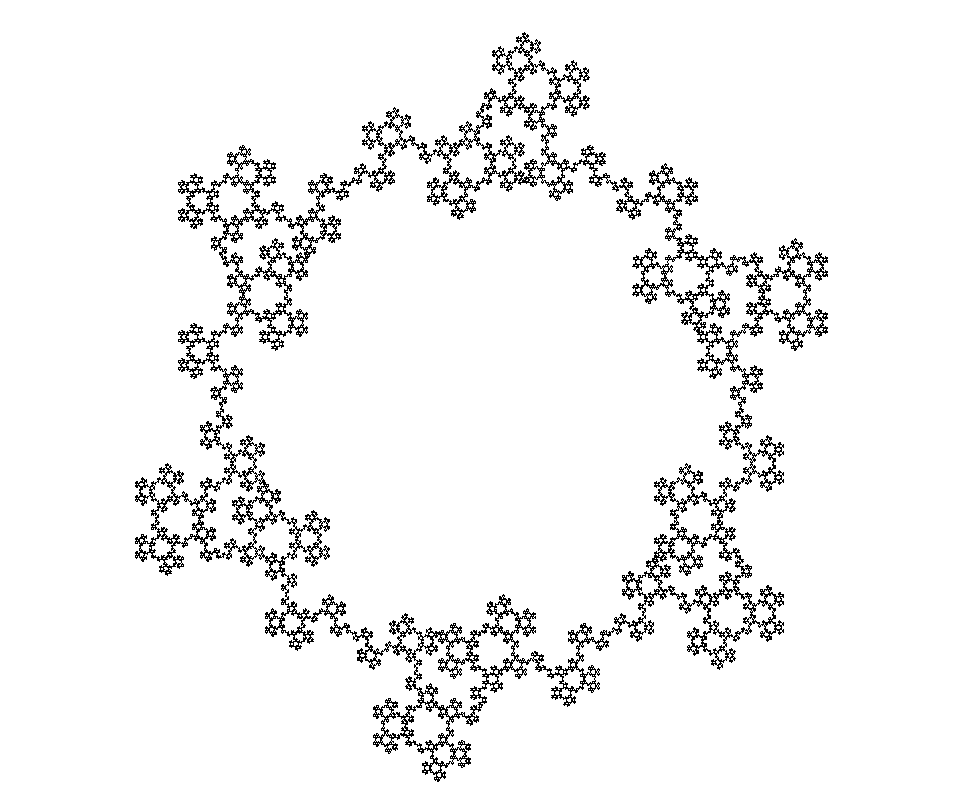
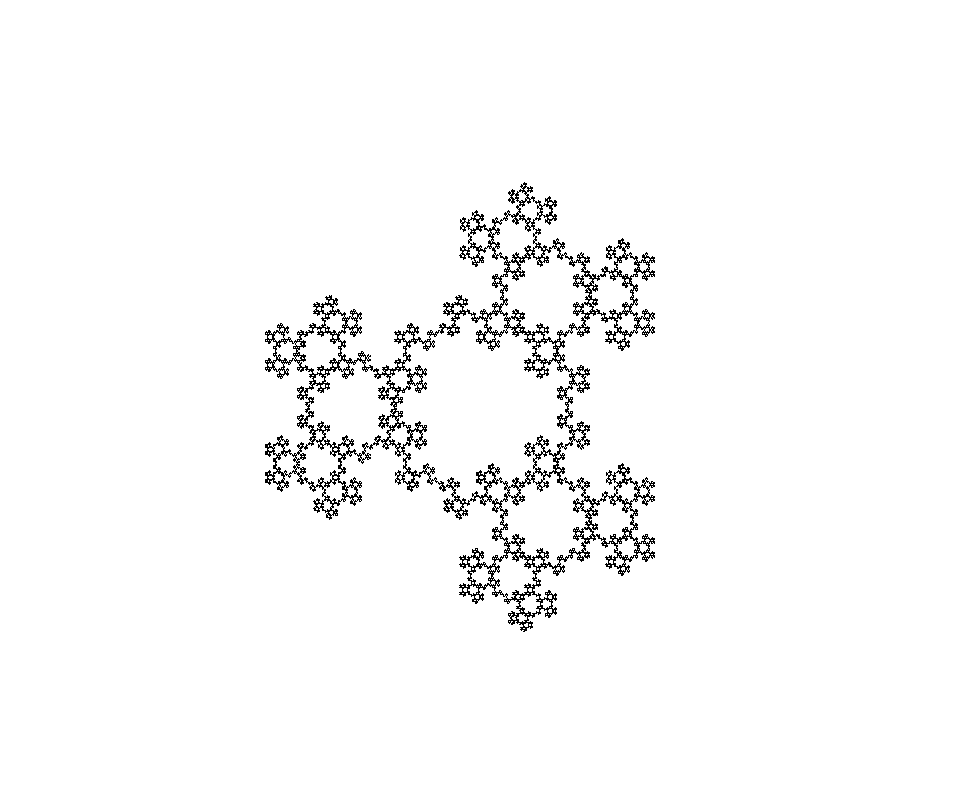
Corrected the Eisenstein Boundary method.

Changed region(s): [[0.121, 0.0309, 0.877, 0.958]]

diff --git a/FractalGeometry/Fractals.py b/FractalGeometry/Fractals.py
@@ -265,9 +265,10 @@ class TurtleFractal():
         :param parity: tracks alternations in the recursive 
             calls; changes direction of turns
         """
-        self.EBForward(depth=depth, size=size, parity=parity)
+        
+        self.EBForward(depth=depth, size=size, parity=-parity)
         self.EBBackwards(depth=depth, size=size, parity=parity)
-
+        
 
     def EBForward(self, depth=10, size=200, parity=1):
         """
@@ -320,11 +321,11 @@ class TurtleFractal():
         """
 
         t.penup()
-        t.setposition(math.sqrt(3)*size,-size)
+        t.setposition(math.sqrt(3)*size/3,-size)
         t.pendown()
-        for _ in range(6):
+        for _ in range(3):
             self.EisensteinBoundary(depth, size)
-            t.left(60)
+            t.left(120)
 
 
     def KochCurve(self, depth=6, size=200):
@@ -432,8 +433,8 @@ def main():
     #tf.BarnsleyLeaf(depth=depths+2, size=sizes)
     #tf.saveImage('BarnsleyLeaf')
 
-    tf.HeighwayPinwheel(depth=depths+4, size=sizes)
-    tf.saveImage('HeighwayPinwheel')
+    #tf.HeighwayPinwheel(depth=depths+4, size=sizes)
+    #tf.saveImage('HeighwayPinwheel')
 
     #tf.SierpinskiDragon(depth=8, size=400)
 
@@ -443,8 +444,8 @@ def main():
     #tf.Pentadendrite(depth=depths/2+2, size=sizes+100)
     #tf.saveImage('Pentadendrite')
 
-    #tf.EisensteinBoundaryFull(depth=4)
-    #tf.saveImage('EisensteinBoundary')
+    tf.EisensteinBoundaryFull(depth=depths)
+    tf.saveImage('EisensteinBoundary1')
 
     #tf.KochSnowFlake(depth=6, size=400*1.5)
     #tf.saveImage('KochSnowFlake')
